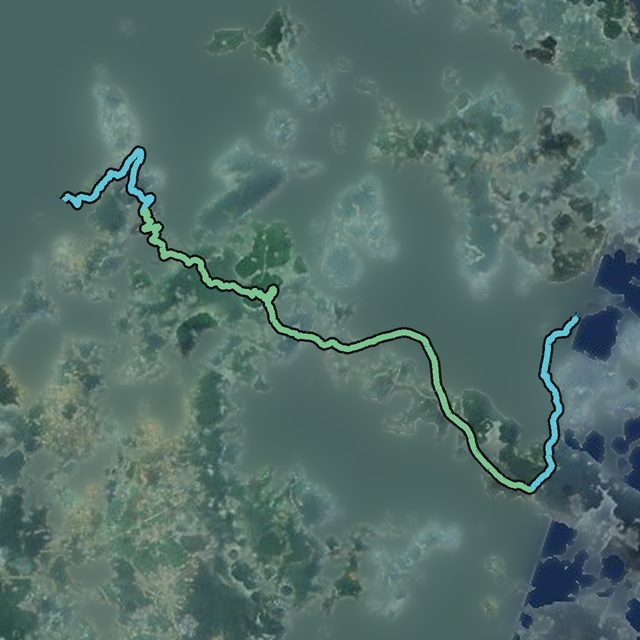
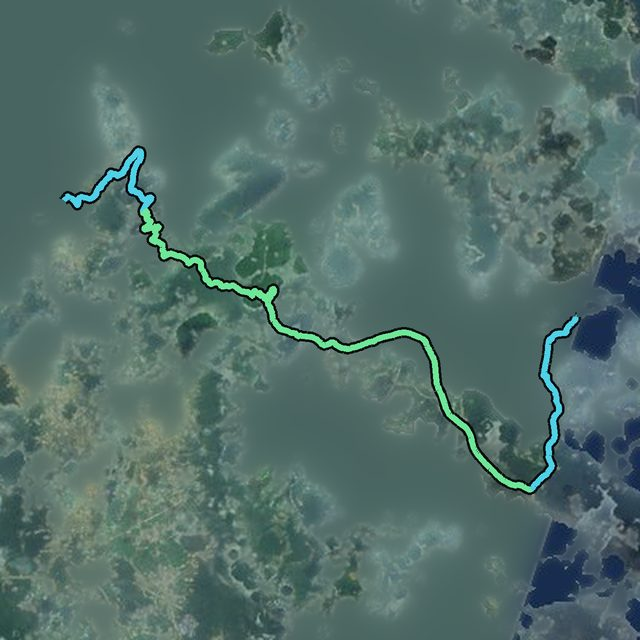
feat: 코스 커버에 야간판 추가, 구간 색을 디자인 토큰에서 읽음
사진만 어둡게 하고 코스 선은 주간과 같은 밝기를 유지한다.
구간 색의 원본을 design/tokens.json 하나로 모은다.

Claude-Session: https://claude.ai/code/session_01CHFCWDMrsSbWFXe8DWxpz7

diff --git a/tools/make-covers.py b/tools/make-covers.py
@@ -11,7 +11,7 @@ import time
 import urllib.request
 from pathlib import Path
 
-from PIL import Image, ImageChops, ImageDraw, ImageFilter, ImageStat
+from PIL import Image, ImageChops, ImageDraw, ImageEnhance, ImageFilter, ImageStat
 
 ROOT = Path(__file__).parent.parent
 TILE = "https://tiles.maps.eox.at/wmts/1.0.0/s2cloudless_3857/default/g/{z}/{y}/{x}.jpg"
@@ -20,8 +20,11 @@ SCALE = 2
 FILL = 0.8
 CACHE = Path(tempfile.gettempdir()) / "byway-tiles"
 CACHE.mkdir(exist_ok=True)
-COLORS = {"forest": (124, 196, 143), "city": (214, 222, 238), "river": (95, 198, 216)}
-FALLBACK = (240, 168, 104)
+FALLBACK = (240, 164, 90)
+CASING = (13, 14, 16)
+# 야간 커버는 사진만 어둡게 한다. 코스 선까지 어두워지면 코스가 안 보인다.
+NIGHT_BRIGHTNESS = 0.62
+NIGHT_CONTRAST = 1.12
 # 세 색 중 가장 어두운 값이 이보다 밝으면 구름으로 본다. 흰 지붕이나 옅은 모래, 콘크리트도 함께 덮인다.
 CLOUD_LEVEL = 150
 
@@ -80,7 +83,19 @@ def frame(path):
     return zoom, (min(xs) + max(xs)) / 2 - window / 2, (min(ys) + max(ys)) / 2 - window / 2, window
 
 
-def cover(course):
+def section_colours():
+    """구간 색의 원본은 design/tokens.json 이다. 사진 위에서 잘 보이는 야간 값을 쓴다."""
+    tokens = json.loads((ROOT / "design/tokens.json").read_text(encoding="utf-8"))
+    colours = {token["name"]: token["value"]["night"] for token in tokens["color"]["tokens"]}
+    rgb = lambda value: tuple(int(value[i:i + 2], 16) for i in (1, 3, 5))
+    return {mood: rgb(colours[f"section-{mood}"]) for mood in ("forest", "city", "river")}
+
+
+def darkened(image):
+    return ImageEnhance.Contrast(ImageEnhance.Brightness(image).enhance(NIGHT_BRIGHTNESS)).enhance(NIGHT_CONTRAST)
+
+
+def cover(course, night=False):
     path = course["path"]
     zoom, left, top, window = frame(path)
     first_x, last_x = int(left // 256), int((left + window) // 256)
@@ -92,7 +107,10 @@ def cover(course):
     box = (int(left - first_x * 256), int(top - first_y * 256))
     drawn = SIZE * SCALE
     image = without_clouds(sheet.crop((box[0], box[1], box[0] + int(window), box[1] + int(window))).resize((drawn, drawn), Image.LANCZOS))
+    if night:
+        image = darkened(image)
     ratio = drawn / window
+    colours = section_colours()
     pen = ImageDraw.Draw(image)
 
     def line(section):
@@ -100,9 +118,9 @@ def cover(course):
         return [((pixel(p, zoom)[0] - left) * ratio, (pixel(p, zoom)[1] - top) * ratio) for p in points]
 
     for section in course["sections"]:
-        pen.line(line(section), fill=(19, 20, 23), width=22, joint="curve")
+        pen.line(line(section), fill=CASING, width=22, joint="curve")
     for section in course["sections"]:
-        pen.line(line(section), fill=COLORS.get(section.get("mood"), FALLBACK), width=12, joint="curve")
+        pen.line(line(section), fill=colours.get(section.get("mood"), FALLBACK), width=12, joint="curve")
     return image.resize((SIZE, SIZE), Image.LANCZOS)
 
 
@@ -111,11 +129,12 @@ def main():
     out.mkdir(parents=True, exist_ok=True)
     for file in sorted((ROOT / "app/src/main/assets/courses").glob("*.json")):
         course = json.loads(file.read_text(encoding="utf-8"))
-        target = out / f"{course['id']}.jpg"
-        if target.exists():
-            continue
-        cover(course).save(target, quality=82)
-        print(target.name, target.stat().st_size, flush=True)
+        for suffix, night in (("", False), ("-night", True)):
+            target = out / f"{course['id']}{suffix}.jpg"
+            if target.exists():
+                continue
+            cover(course, night).save(target, quality=82)
+            print(target.name, target.stat().st_size, flush=True)
 
 
 if __name__ == "__main__":

diff --git a/tools/test_make_covers.py b/tools/test_make_covers.py
@@ -86,5 +86,26 @@ class CoverTest(unittest.TestCase):
         self.assertLess(max(min(pixel) for pixel in cover.getdata()), 200)
 
 
+class NightTest(unittest.TestCase):
+    course = {"path": TALL, "sections": [{"startIndex": 0, "endIndex": 90, "mood": "river"}]}
+
+    def covers(self):
+        green = Image.new("RGB", (256, 256), (60, 110, 70))
+        with mock.patch.object(mc, "tile", return_value=green):
+            return mc.cover(self.course), mc.cover(self.course, night=True)
+
+    def test_the_night_photo_is_darker(self):
+        day, night = self.covers()
+        self.assertLess(sum(night.getpixel((20, 20))), sum(day.getpixel((20, 20))) * 0.8)
+
+    def test_the_course_line_stays_as_bright_at_night(self):
+        day, night = self.covers()
+        middle = mc.SIZE // 2
+        self.assertEqual(day.getpixel((middle, middle)), night.getpixel((middle, middle)))
+
+    def test_section_colours_come_from_the_design_tokens(self):
+        self.assertEqual(mc.section_colours()["river"], (0x4F, 0xD1, 0xE8))
+
+
 if __name__ == "__main__":
     unittest.main()
